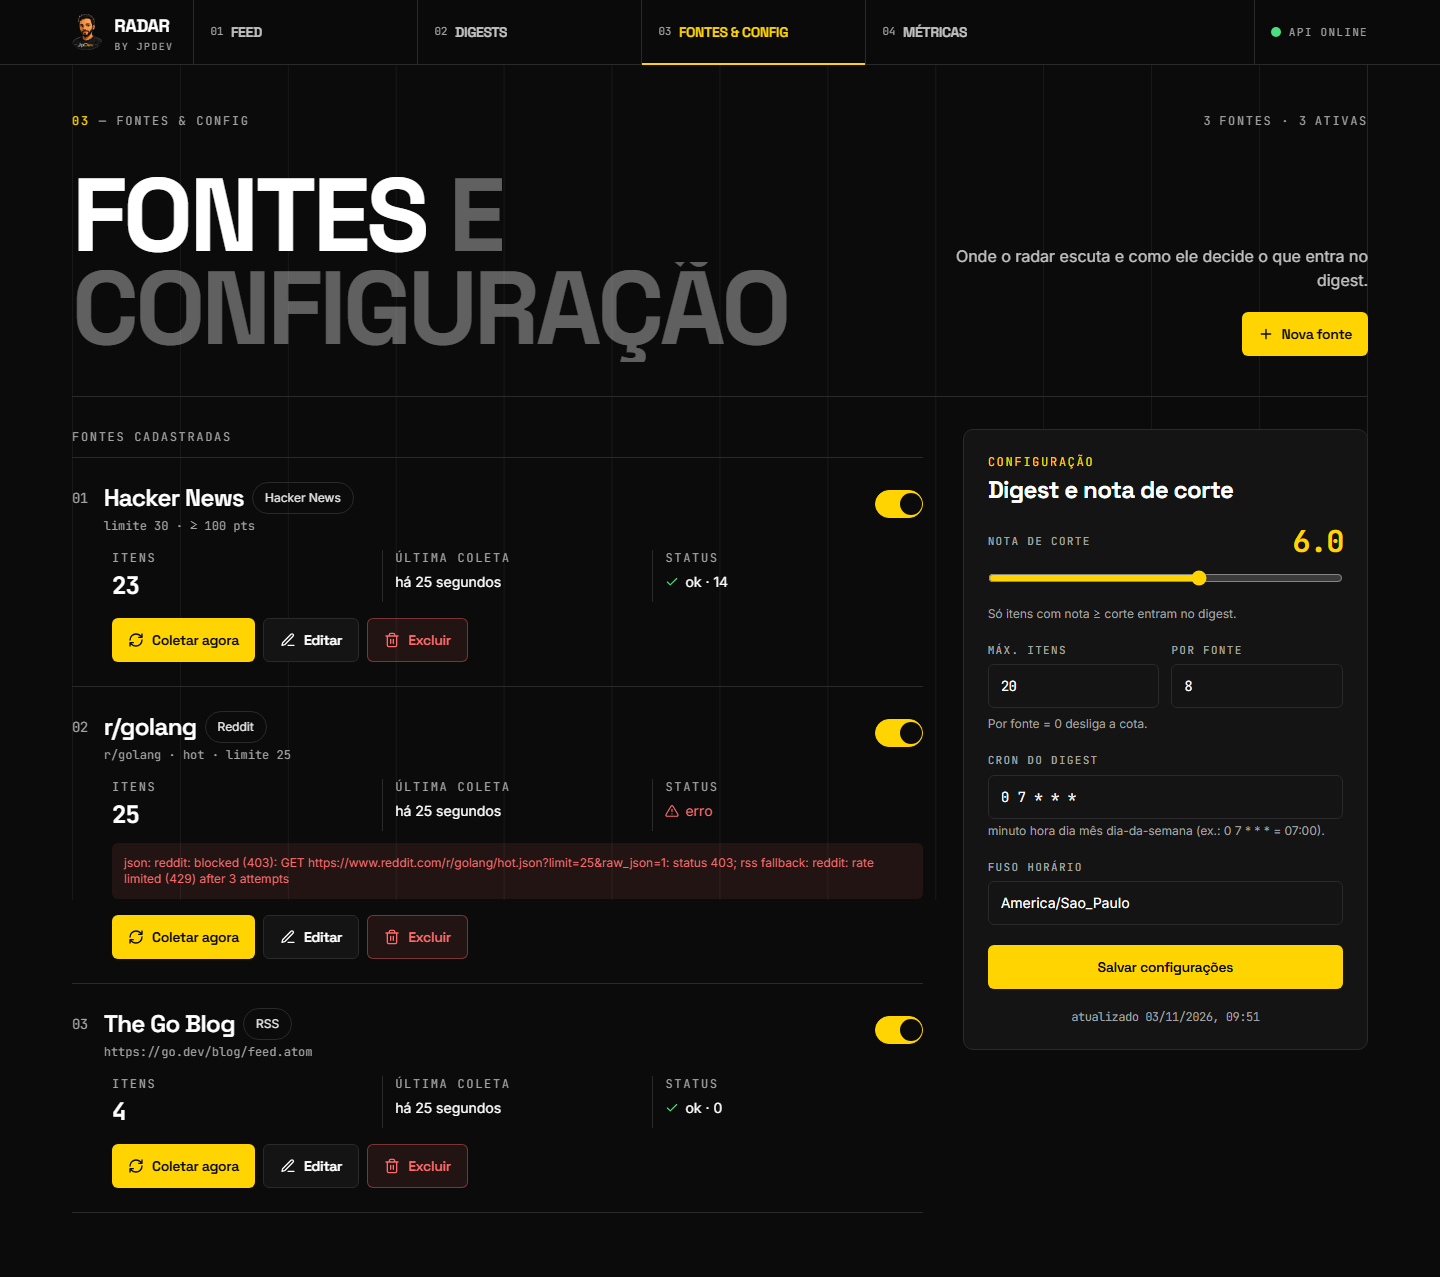
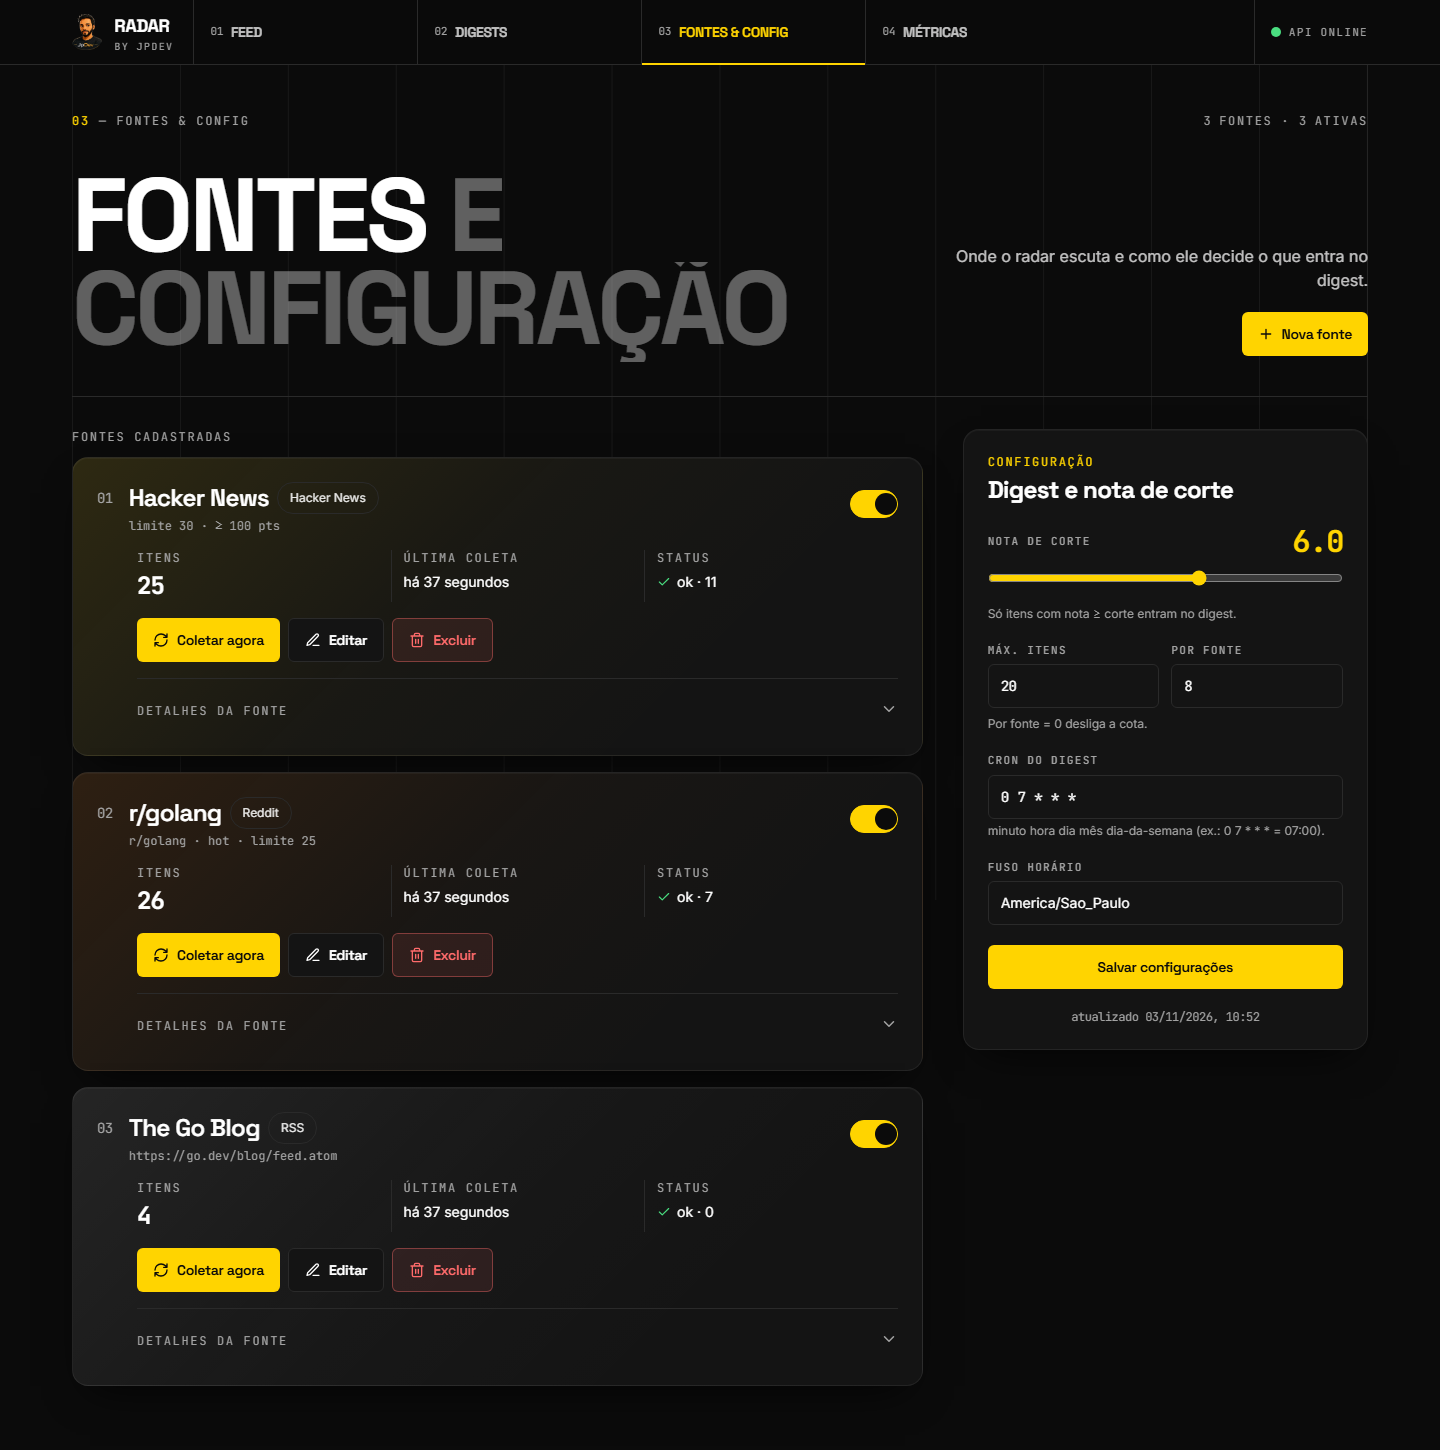
docs: add MOXEN Encuentro reference (R2), refresh screenshots and before/after

diff --git a/docs/DESIGN.md b/docs/DESIGN.md
@@ -1,4 +1,4 @@
-# Design — Radar by JpDev (fase R1)
+# Design — Radar by JpDev (fases R1 e R2)
 
 Redesign editorial do front Vue 3 (`web/`). Referência estudada: Tubik, *The Alabama Solution* — páginas editoriais para a investigação da HBO (Webby 2026). As imagens do case foram baixadas para `.runs/ref/` (fora do git) só para estudo; nada da referência foi copiado: marca, cores, fontes e conteúdo são do Radar/JpDev.
 
@@ -107,3 +107,63 @@ Animação só em `transform`/`opacity` (nada de `width`/`height`), para não di
 ## 6. Acessibilidade
 
 Contraste ≥ 4,5:1 em texto (cinza `#A3A3A3` é o mínimo usado); foco visível amarelo em tudo; link "Pular para o conteúdo"; títulos com `aria-label` (as palavras animadas ficam `aria-hidden`); números animados com valor final em `sr-only`; gráficos com rótulo, alvos focáveis por dia e tabela equivalente; diálogos nativos (`<dialog>`) com Esc e foco preso; sem rolagem horizontal nos três viewports (verificado no e2e).
+
+---
+
+# Referência 2: MOXEN Encuentro (fase R2)
+
+Segunda referência, aplicada **por cima** do R1 sem trocar a linguagem editorial. Estudamos os padrões de widget do *Encuentro* (MOXEN): cartões flutuantes arredondados sobre fundo escuro, um scrubber arrastável com rótulo numérico vivo, painéis que se expandem com os filhos entrando em sequência e controles segmentados com pílula deslizante. Não copiamos marca, cor, fonte nem conteúdo da referência. A paleta continua JpDev (preto + amarelo, laranja só como apoio).
+
+## 1. Padrões e onde entraram
+
+| Padrão da referência | No Radar | Backend real |
+|---|---|---|
+| **Cartão flutuante** (raio ~16px, sombra difusa, fundo escuro) | `card-float`: scrubber, painel "Mais filtros", relatório da coleta, cada fonte, painel de configuração, cluster do item | — |
+| **Scrubber arrastável com rótulo `tabular-nums` ao vivo** | `TimelineScrubber.vue` no Feed: histograma de 30 dias com duas alças (início/fim) que escolhem uma faixa de datas. O rótulo `05 out → 03 nov` e a contagem "N itens nestes dias" mudam enquanto arrasta | **Novo** `GET /api/feed/timeline?days=30` (contagem por dia do `feed_view`, no fuso das settings, com os mesmos filtros não-temporais do feed). A faixa vira `from`/`to` (RFC 3339) em `/api/feed`; o teste de integração prova que o feed devolve exatamente o total que o histograma contou |
+| **Painel de disclosure** (altura 300–400ms ease-out, filhos com fade + `translateY(10px)→0` em sequência) | `DisclosurePanel.vue`: "Mais filtros" do feed (fonte, tag, nota mínima; abre sozinho quando um deles fica ativo) e "Detalhes da fonte" (cada campo de `config`, ID, criada/atualizada, última coleta com duração, run ID) | `/api/sources` (dados já existentes, antes ocultos) |
+| **Controle segmentado com pílula deslizante** (150–200ms ease-out) | `SegmentedControl.vue`: período e ordem do feed, período (7/14/30 dias) das métricas. Com faixa personalizada ativa, nenhuma opção de período fica marcada e a pílula some | `/api/feed?period=`, `/api/metrics?days=` |
+| **Gradientes suaves por categoria** | Cartão de fonte com `--grad-<kind>`: amarelo (Hacker News), laranja (Reddit), neutro (RSS), opacidade ≤ 11% | `kind` da fonte |
+| **Botão primário preto sobre superfície clara** | Faixa amarela "Faixa ativa · 28 out → 03 nov" com botão preto **Limpar faixa** (`surface-primary` + `btn-ink`). Sobre o escuro, o primário continua amarelo | — |
+
+## 2. Tokens novos (CSS variables em `web/src/style.css`, `:root`)
+
+| Token | Valor | Uso |
+|---|---|---|
+| `--radius-card` | `16px` | cartões flutuantes, superfície amarela |
+| `--radius-control` | `6px` | botões e campos |
+| `--shadow-float` | `inset 0 1px 0 #fff/4%, 0 18px 40px -18px #000/85%` | elevação dos cartões |
+| `--border-float` | `#fff` a 7% | borda dos cartões |
+| `--grad-hackernews` / `--grad-reddit` / `--grad-rss` | `linear-gradient(135deg, cor a 11% → 2% → transparente)` | blocos por tipo de fonte |
+| `--grad-scrub` | amarelo 95% → 55% | barras dentro da faixa |
+| `--ease-out` | `cubic-bezier(.22, 1, .36, 1)` | easing dos widgets |
+| `--dur-seg` | `180ms` | pílula do segmentado |
+| `--dur-disclose` | `340ms` | altura do disclosure (fechar: 220ms, sem stagger) |
+| `--dur-disclose-item` | `300ms` | fade + subida dos filhos |
+| `--stagger-disclose` | `45ms` | intervalo entre filhos (até 6 passos; atraso inicial de 80ms) |
+
+Utilitários: `card-float`, `surface-primary`, `btn-ink`, `.dz-group` (os filhos de uma grade entram um a um).
+
+## 3. Interação e acessibilidade
+
+- **Scrubber**: cada alça é `role="slider"` com `aria-valuemin/max/now`, `aria-label` ("Início/Fim da faixa de datas") e `aria-valuetext` ("Seg., 27 de out. de 2026, 5 itens"). Teclado: ←/↓ e →/↑ (±1 dia), PageDown/PageUp (±7), Home/End. A faixa é aplicada 400ms após a última tecla, ou ao soltar o ponteiro, e só se mudou desde o início do gesto. Arrastar uma alça move a sua borda pelo deslocamento do ponteiro, então um clique na alça sem arrastar não muda nada. **Alternativa ao arrasto (WCAG 2.5.7):** tocar no trilho leva a alça mais próxima ao dia tocado. A faixa sempre vai como `from` **e** `to` (no último dia, `to` é o fim do próprio histograma), para o feed devolver exatamente as linhas contadas. Se um link salvo começa antes da janela de 30 dias, o rótulo mostra a data real da URL e esconde a contagem, em vez de fingir que a faixa começa no 1º dia. Alças com 44px de área de toque; `touch-action: pan-y` deixa a rolagem vertical livre no celular.
+- **Disclosure**: padrão WAI-ARIA (botão com `aria-expanded` + `aria-controls`, região com `aria-labelledby`). Fechado, o conteúdo fica `visibility: hidden`: sai da ordem de tab e da árvore de acessibilidade, não só da vista.
+- **Segmentado**: grupo rotulado de botões `aria-pressed`; setas e Home/End movem foco e seleção.
+- **Rolagem**: troca de filtro (só a query muda) mantém a posição da página. Antes, cada filtro voltava ao topo e, no celular, tirava o scrubber da tela. Só os botões Anterior/Próxima rolam até o início da lista.
+- **Landmarks**: só o painel "Mais filtros" é `role=region`. Os detalhes de cada fonte não são, para não encher a lista de landmarks.
+- **Exceção registrada ao R1**: o R1 só anima `transform`/`opacity`. O disclosure anima `grid-template-rows` (altura) e a pílula anima `width`, porque são exatamente os padrões pedidos. O custo é pequeno: o layout é recalculado só no painel ou no grupo de botões.
+
+## 4. `prefers-reduced-motion`
+
+A regra global do R1 (durações a 0,01ms, sem delay) cobre os widgets: a pílula salta, o disclosure abre na altura final com os filhos já visíveis, as barras e alças do scrubber não deslizam. O teste e2e `reduced motion: widgets settle at once` cobre isso.
+
+## 5. Testes
+
+`web/e2e/widgets.spec.ts`, nos três viewports:
+- **pílula**: assentada sob a opção pressionada (x e largura com tolerância de 1px), seleção pelas setas, períodos das métricas;
+- **scrubber pelo teclado**: semântica de slider, rótulo ao vivo, `from` aplicado na URL e na API, total do feed igual à contagem do histograma (e à soma das barras), teclas que voltam ao início não aplicam nada, botão preto sobre o amarelo e "Limpar faixa";
+- **scrubber pelo ponteiro**: arrasto com rótulo mudando durante o gesto, clique simples na alça sem efeito, toque no trilho como alternativa, posição de rolagem preservada;
+- **scrubber em link salvo** com início fora da janela, e **filtro trocado na página 2** sem a tela pular;
+- **disclosure**: `aria-expanded`, `0fr → 1fr` com 340ms, atrasos crescentes entre os filhos, contador de filtros, detalhes da fonte com dados reais, gradiente e raio de 16px;
+- **reduced motion**.
+
+Go: `TestDayStarts` (limites de dia no fuso), `TestTimelineIgnoresTimeFilters` e casos de validação em `TestStatusMapping`, além do bloco de timeline em `TestAPIAgainstPostgresAndNATS`, que roda contra o Postgres real.

diff --git a/README.md b/README.md
@@ -78,7 +78,8 @@ docker-compose.yml       Postgres pgvector pg16 + NATS JetStream
 | Método e rota | O que faz |
 |---|---|
 | `GET /healthz` | saúde (Postgres e NATS) |
-| `GET /api/feed` | feed paginado (`source_id`, `tag`, `q`, `period`, `min_score`, `sort`, `page`) |
+| `GET /api/feed` | feed paginado (`source_id`, `tag`, `q`, `period` ou `from`/`to`, `min_score`, `sort`, `page`) |
+| `GET /api/feed/timeline` | itens do feed por dia nos últimos `days` (1–90, padrão 30), mesmos filtros não-temporais; alimenta o scrubber de datas |
 | `GET /api/items/{id}` | item, cluster e duplicados com similaridade |
 | `GET /api/digests` · `GET /api/digests/{date}` · `POST /api/digests/generate` | digests (`format=html\|md`) |
 | `GET/POST /api/sources` · `PATCH/DELETE /api/sources/{id}` · `POST /api/sources/{id}/fetch` | CRUD de fontes e coleta manual |
@@ -144,6 +145,8 @@ cd backend; go test ./... -count=1 -cover
   `web/e2e/actions.spec.ts` cobre filtros, busca, tag, ordem, nota mínima, paginação, rodar pipeline,
   abrir detalhe e 404 de item, gerar e ler digest, CRUD de fonte com erro de validação, ativar/desativar,
   coletar agora, salvar settings com cron inválido, métricas (período, atualizar, tabela) e navegação.
+  `web/e2e/widgets.spec.ts` cobre o scrubber de datas (teclado, arrasto, toque, link salvo), as pílulas
+  dos segmentados, os painéis de disclosure e o reduced motion (detalhes em `docs/DESIGN.md` › Referência 2).
   Cada teste roda em 3 projects: **desktop 1440x900**, **tablet 834x1112** e **mobile 390x844**,
   falha em erro de console, exceção de página ou 5xx, e checa overflow horizontal.
   Os testes que alteram dados apagam a fonte criada e restauram as settings.

diff --git a/web/README.md b/web/README.md
@@ -21,7 +21,7 @@ tela ficam em `docs/screenshots/<tela>-<viewport>.png`.
 
 | Rota | Tela | Endpoints |
 |---|---|---|
-| `/` | Feed: cards com a nota em destaque, filtros de fonte, tag, período, nota mínima e ordem, busca, paginação (filtros na URL) e "Rodar pipeline" | `GET /api/feed`, `GET /api/sources`, `GET /api/settings`, `POST /api/pipeline/run` |
+| `/` | Feed: cards com a nota em destaque, scrubber de datas sobre o histograma diário, período e ordem em segmentados, "Mais filtros" (fonte, tag, nota mínima) em disclosure, busca, paginação (filtros na URL) e "Rodar pipeline" | `GET /api/feed`, `GET /api/feed/timeline`, `GET /api/sources`, `GET /api/settings`, `POST /api/pipeline/run` |
 | `/items/:id` | Detalhe/Cluster: resumo, motivo da nota, tags, conteúdo, metadados, cluster e duplicados com similaridade, link original | `GET /api/items/{id}` |
 | `/digests/:date?` | Digests: lista por data, leitura do HTML num iframe sandbox, download do Markdown e "Gerar agora" | `GET /api/digests`, `GET /api/digests/{date}?format=html\|md`, `POST /api/digests/generate` |
 | `/sources` | Fontes & Config: criar, editar, ativar/desativar, excluir (com confirmação) e "Coletar agora"; nota de corte, máximo de itens, cota por fonte, cron e fuso | `GET/POST /api/sources`, `PATCH/DELETE /api/sources/{id}`, `POST /api/sources/{id}/fetch`, `GET/PUT /api/settings` |
